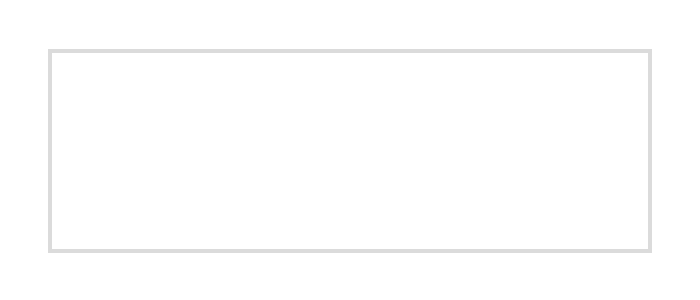
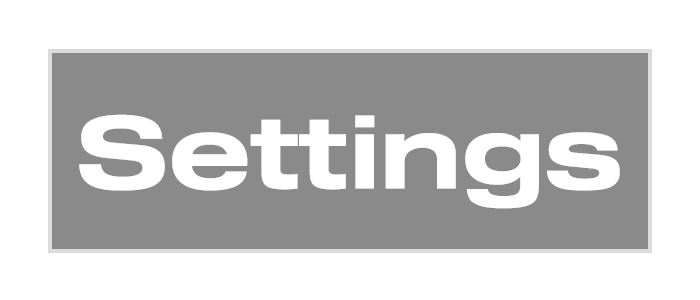
sync

diff --git a/pumpAndDumpGame/src/classFiles/Stock.java b/pumpAndDumpGame/src/classFiles/Stock.java
@@ -1,12 +1,14 @@
 package classFiles;
 
 import java.awt.Color;
+import java.awt.Font;
 import java.awt.Graphics;
 import java.util.*;
 
 public class Stock {
 	
 	public static ArrayList<Stock> market = new ArrayList<>();
+	private static Font price = new Font("Arial", Font.PLAIN, 20);
 
 	private final static boolean POSITIVE = true;
 	private final static boolean NEGATIVE = false;
@@ -17,12 +19,20 @@ public class Stock {
 	private double momentum;
 	private double maxPrice;
 	private double minPrice;
+	private int recentMax;
+	private int recentMin;
+	private double targetGrowth;
+	private double stability;
 
-	public Stock(String symbol, int initialPrice, double volatility) {
+	public Stock(String symbol, int initialPrice, double volatility, double targetGrowth, double stability) {
 		maxPrice = initialPrice;
 		minPrice = initialPrice;
+		recentMax = 0;
+		recentMin = 0;
 		this.symbol = symbol;
 		this.volatility = volatility;
+		this.targetGrowth = targetGrowth;
+		this.stability = stability;
 		momentum = 2; //default
 		priceHistory = new ArrayList<>();
 		priceHistory.add(generateInitialCandlestick(initialPrice));
@@ -46,6 +56,10 @@ public class Stock {
 	
 	public ArrayList<Candlestick> getPriceHistory() {
 		return priceHistory;
+	}
+	
+	public int getRecentMax() {
+		return recentMax;
 	}
 	
 	public void setValue(double newPrice) {
@@ -81,12 +95,12 @@ public class Stock {
 	public void nextCandleStick() {
 		//first, find pressure
 		Deque<Candlestick> recent = new LinkedList<Candlestick>
-		(priceHistory.subList(Math.max(priceHistory.size() - 25,  0), priceHistory.size()));
+		(priceHistory.subList(Math.max(priceHistory.size() - (int)(25 * stability),  0), priceHistory.size()));
 		
-		int recentSize = Math.min(priceHistory.size(), 25);
+		int recentSize = Math.min(priceHistory.size(), (int)(25 * stability));
 		
 		//baselinePrice is the average price of the last 25 available candlesticks + 10%
-		double baselinePrice = baselineSum / recentSize * 1.01;
+		double baselinePrice = baselineSum / recentSize * targetGrowth;
 //		System.out.println(baselinePrice);
 		//find pressure as %difference from baselinePrice
 		double percentDiff = (baselinePrice - this.getValue()) / baselinePrice;
@@ -110,9 +124,34 @@ public class Stock {
 			generateCandleStick(NEGATIVE);
 		}
 		
+		//check for out of bounds min/max
+		if(priceHistory.size() - recentMax > 141) { //recent max is out of bounds of the current graph
+			double maxValue = priceHistory.get(priceHistory.size() - 141).getClosePrice();
+			int maxIndex = priceHistory.size() - 141;
+			for(int i = priceHistory.size() - 140; i < priceHistory.size(); i++) {
+				if(priceHistory.get(i).getClosePrice() > maxValue) {
+					maxValue = priceHistory.get(i).getClosePrice();
+					maxIndex = i;
+				}
+			}
+			recentMax = maxIndex;
+		}
+		
+		if(priceHistory.size() - recentMin > 141) { //recent max is out of bounds of the current graph
+			double minValue = priceHistory.get(priceHistory.size() - 140).getClosePrice();
+			int minIndex = priceHistory.size() - 141;
+			for(int i = priceHistory.size() - 140; i < priceHistory.size(); i++) {
+				if(priceHistory.get(i).getClosePrice() < minValue) {
+					minValue = priceHistory.get(i).getClosePrice();
+					minIndex = i;
+				}
+			}
+			recentMin = minIndex;
+		}
+		
 		//correct baselineSum
-		if(recentSize == 25) {
-			baselineSum -= priceHistory.get(priceHistory.size() - 25).getClosePrice();
+		if(recentSize == 25 * stability) {
+			baselineSum -= priceHistory.get(priceHistory.size() - (int)(25 * stability)).getClosePrice();
 		}
 	}
 	
@@ -125,10 +164,13 @@ public class Stock {
 				//maxroll momentum in the other direction
 				momentum = Math.min(momentum + 0.25, 2.7);
 			}
-			momentum = Math.min(momentum + Math.sqrt(Math.random()) * 0.2 + 0.05, 2.7);
+			momentum = Math.min(momentum + Math.sqrt(Math.random()) * 0.2 + 0.05, 2.55);
 			baselineSum += this.getValue() + change;
 			if(this.getValue() + change > maxPrice) {
 				maxPrice = this.getValue() + change;
+			}
+			if(this.getValue() + change > priceHistory.get(recentMax).getClosePrice()) {
+				recentMax = priceHistory.size(); //set recent max index to new candlestick
 			}
 			priceHistory.add(new Candlestick(this.getValue(), this.getValue() + change));
 		}
@@ -138,10 +180,13 @@ public class Stock {
 				//maxroll momentum in the other direction
 				momentum = Math.max(momentum - 0.25, 1.3);
 			}
-			momentum = Math.max(momentum - Math.random() * 0.2 + 0.05, 1.3);
+			momentum = Math.max(momentum - Math.sqrt(Math.random()) * 0.2 + 0.05, 1.3);
 			baselineSum += this.getValue() - change;
 			if(this.getValue() - change < minPrice) {
 				minPrice = this.getValue() - change;
+			}
+			if(this.getValue() - change < priceHistory.get(recentMin).getClosePrice()) {
+				recentMin = priceHistory.size(); //set recent max index to new candlestick
 			}
 			priceHistory.add(new Candlestick(this.getValue(), this.getValue() - change));
 		}
@@ -151,6 +196,8 @@ public class Stock {
 //		g.setColor(Color.WHITE);
 		double topBound = maxPrice * 1.05;
 		double bottomBound = minPrice * 0.95;
+//		double topBound = 50;
+//		double bottomBound = 0;
 		int openPixel;
 		int closePixel;
 		for (int i = 0; i < Math.min((System.currentTimeMillis() - startTime) / 50, candlestickCount); i++) {
@@ -167,8 +214,47 @@ public class Stock {
 //					candlestickWidth,
 //					-100);
 			g.fillRect(i * candlestickWidth, Math.min(openPixel, closePixel), candlestickWidth, Math.abs(openPixel - closePixel));
-			
-			
+		}
+	}
+	
+	public void drawGraph(Graphics g) {
+		double topBound = priceHistory.get(recentMax).getClosePrice() * 1.05;
+		double bottomBound = priceHistory.get(recentMin).getClosePrice() * 0.95;
+		
+		drawGraphLines(g);
+		
+		int openPixel;
+		int closePixel;
+		int start = priceHistory.size() - 141;
+		for (int i = 0; i < 140; i++) {
+			openPixel = getDrawPixel(100, 700, topBound, bottomBound, priceHistory.get(i + start).getOpenPrice());
+			closePixel = getDrawPixel(100, 700, topBound, bottomBound, priceHistory.get(i + start).getClosePrice());
+			if(openPixel >= closePixel) { //upward candle
+				g.setColor(Color.GREEN);
+			}
+			else { //downward candle
+				g.setColor(Color.RED);
+			}
+//			g.drawRect(i * candlestickWidth, 
+//					getDrawPixel(0, 1900, topBound, bottomBound, priceHistory.get(i).getOpenPrice()),
+//					candlestickWidth,
+//					-100);
+			g.fillRect(10 + i * 10, Math.min(openPixel, closePixel), 10, Math.abs(openPixel - closePixel));
+		}
+	}
+	
+	public void drawGraphLines(Graphics g) {
+		g.setColor(Color.WHITE);
+		g.setFont(price);
+		double top = priceHistory.get(recentMax).getClosePrice();
+		double bottom = priceHistory.get(recentMin).getClosePrice();
+		double valueIncrement = (top - bottom) / 4; //round to nearest 100th
+		
+		int yCoord;
+		for(int i = 0; i <= 4; i++) {
+			yCoord = getDrawPixel(100, 700, top * 1.05, bottom * 0.95, bottom + (i * valueIncrement));
+			g.drawLine(10, yCoord, 1450, yCoord);
+			g.drawString(String.format("%.2f", bottom + (i * valueIncrement)), 1455, yCoord + 2);
 		}
 	}
 	

diff --git a/pumpAndDumpGame/src/pumpAndDumpGame/priceGenerationTest.java b/pumpAndDumpGame/src/pumpAndDumpGame/priceGenerationTest.java
@@ -8,23 +8,28 @@ import classFiles.Stock;
 public class priceGenerationTest {
 
 	public static void main(String[] args) {
-		Scanner in = new Scanner(System.in);
 		Stock test;
 //		for(int i = 0; i < 10; i++) {
 //			test = new Stock("TEST", 10, 1);
 //			System.out.println(test);
 //			test.nextCandleStick();
 //		}
-		while(true) {
-			test = new Stock("TEST", 10, 3);
-			for(int i = 0; i < 25; i++) {
-				System.out.println("s'");
+		int winners = 0;
+		int losers = 0;
+		for(int i = 0; i < 1000; i++) {
+			test = new Stock("TEST", 10, 1, 1, 1);
+			for(int j = 0; j < 150; j++) {
 				test.nextCandleStick();
-				System.out.println("hi");
 			}
-			System.out.println(test);
-			in.nextLine();
+			if(test.getPriceHistory().getLast().getClosePrice() > 10) {
+				winners++;
+			}
+			else {
+				losers++;
+			}
 		}
+		System.out.println(winners + " winners");
+		System.out.println(losers + " losers");
 	}
 
 }
